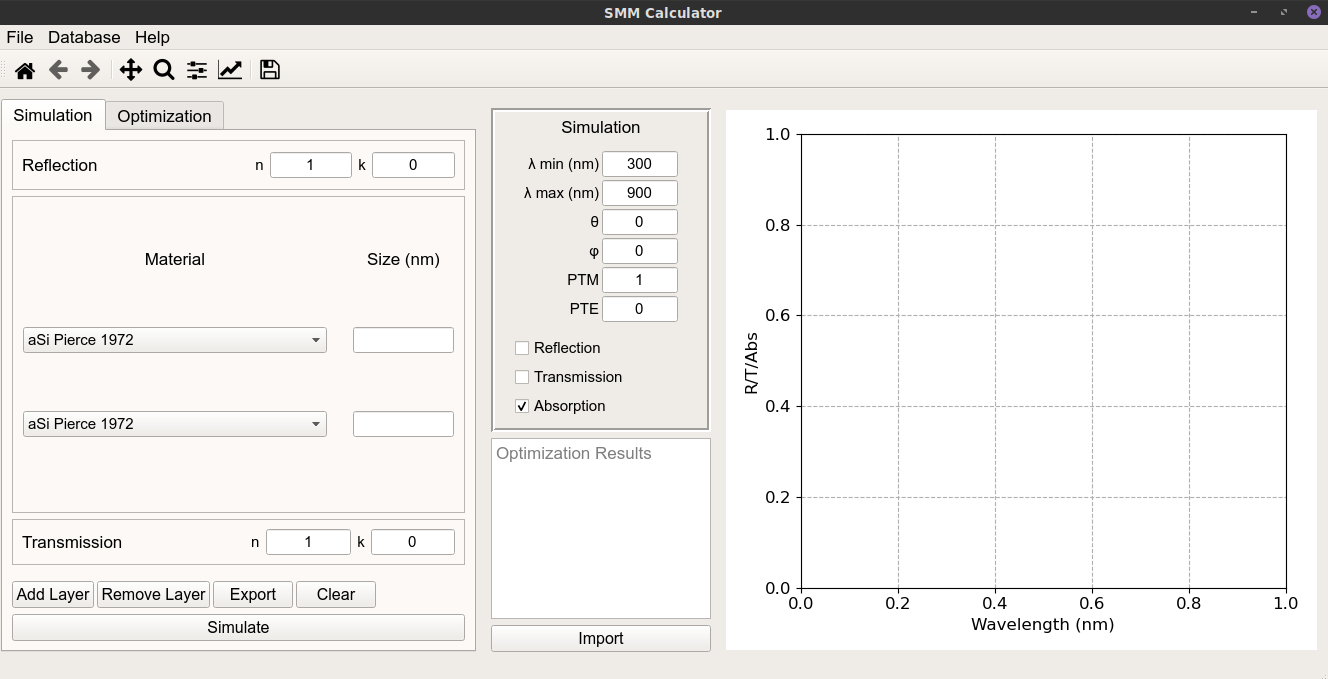
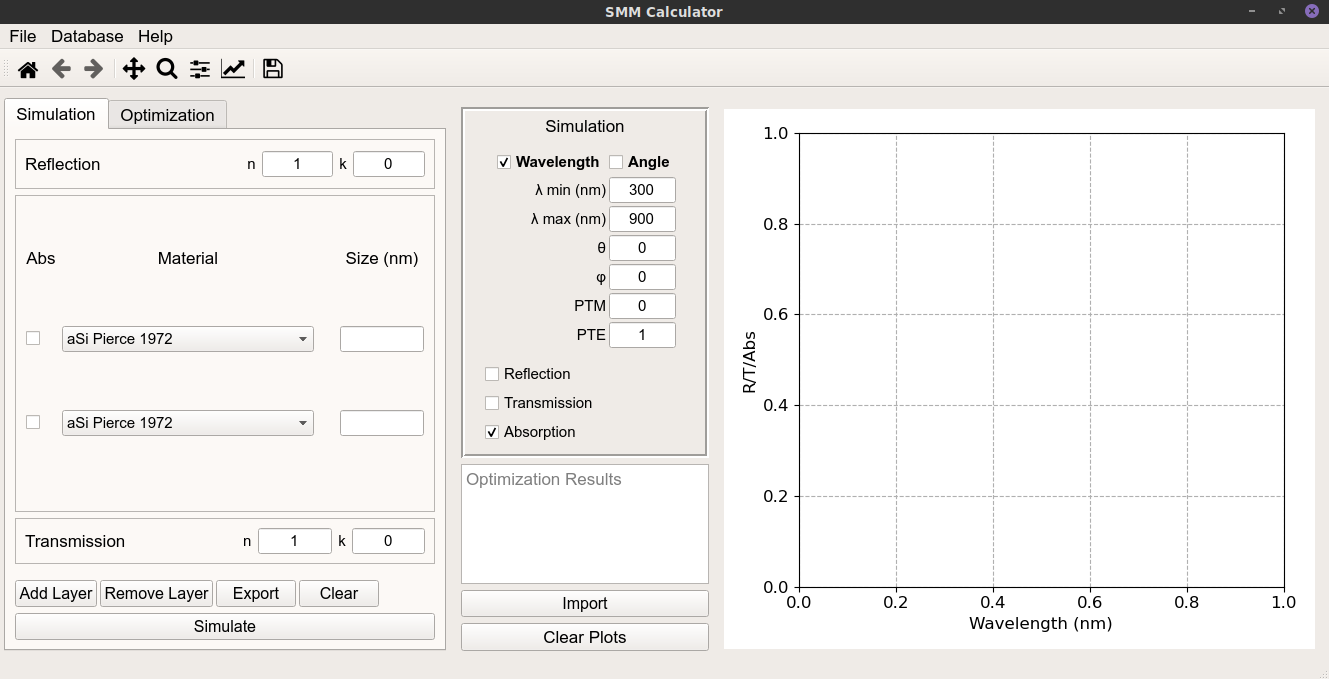
Uniformize interface

diff --git a/smm_uis/smm_main_window.py b/smm_uis/smm_main_window.py
@@ -1,6 +1,6 @@
 # -*- coding: utf-8 -*-
 
-# Form implementation generated from reading ui file 'smm_uis/Designer_UIs/main.ui'
+# Form implementation generated from reading ui file 'Designer_UIs/main.ui'
 #
 # Created by: PyQt5 UI code generator 5.9.2
 #
@@ -18,7 +18,7 @@ class Ui_SMM_Window(object):
         SMM_Window.setFont(font)
         SMM_Window.setAcceptDrops(True)
         icon = QtGui.QIcon()
-        icon.addPixmap(QtGui.QPixmap("../logo.png"), QtGui.QIcon.Normal, QtGui.QIcon.Off)
+        icon.addPixmap(QtGui.QPixmap("logo.png"), QtGui.QIcon.Normal, QtGui.QIcon.Off)
         SMM_Window.setWindowIcon(icon)
         self.centralwidget = QtWidgets.QWidget(SMM_Window)
         self.centralwidget.setObjectName("centralwidget")
@@ -545,7 +545,6 @@ class Ui_SMM_Window(object):
         font.setFamily("Arial")
         font.setPointSize(12)
         self.opt_tab_sim_button.setFont(font)
-        self.opt_tab_sim_button.setToolTip("")
         self.opt_tab_sim_button.setObjectName("opt_tab_sim_button")
         self.verticalLayout_4.addWidget(self.opt_tab_sim_button)
         self.tab_widget.addTab(self.optimizatio_tab, "")
@@ -953,14 +952,19 @@ class Ui_SMM_Window(object):
         self.sim_tab_trn_k_label.setText(_translate("SMM_Window", "k"))
         self.sim_tab_trn_k.setStatusTip(_translate("SMM_Window", "Complex refractive index in transmission region"))
         self.sim_tab_trn_k.setText(_translate("SMM_Window", "0"))
+        self.sim_tab_add_layer_button.setToolTip(_translate("SMM_Window", "Add layer to the stack"))
         self.sim_tab_add_layer_button.setStatusTip(_translate("SMM_Window", "Add a layer to the bottom of the stack"))
         self.sim_tab_add_layer_button.setText(_translate("SMM_Window", "Add Layer"))
+        self.sim_tab_rem_layer_button.setToolTip(_translate("SMM_Window", "Remove layer from the stack"))
         self.sim_tab_rem_layer_button.setStatusTip(_translate("SMM_Window", "Remove bottom layer from the stack"))
         self.sim_tab_rem_layer_button.setText(_translate("SMM_Window", "Remove Layer"))
+        self.sim_tab_export_button.setToolTip(_translate("SMM_Window", "Export stored simulation results"))
         self.sim_tab_export_button.setStatusTip(_translate("SMM_Window", "Export the stored simulation results"))
         self.sim_tab_export_button.setText(_translate("SMM_Window", "Export"))
+        self.sim_tab_clear_button.setToolTip(_translate("SMM_Window", "Clear all stored simulation results"))
         self.sim_tab_clear_button.setStatusTip(_translate("SMM_Window", "Clear all stored simulation results"))
         self.sim_tab_clear_button.setText(_translate("SMM_Window", "Clear"))
+        self.sim_tab_sim_button.setToolTip(_translate("SMM_Window", "Run Simulation"))
         self.sim_tab_sim_button.setStatusTip(_translate("SMM_Window", "Perform Simulation"))
         self.sim_tab_sim_button.setText(_translate("SMM_Window", "Simulate"))
         self.tab_widget.setTabText(self.tab_widget.indexOf(self.simulation_tab), _translate("SMM_Window", "Simulation"))
@@ -981,41 +985,62 @@ class Ui_SMM_Window(object):
         self.opt_tab_trn_k_label.setText(_translate("SMM_Window", "k"))
         self.opt_tab_trn_k.setStatusTip(_translate("SMM_Window", "Complex refractive index in transission region"))
         self.opt_tab_trn_k.setText(_translate("SMM_Window", "0"))
+        self.opt_tab_add_layer_button.setToolTip(_translate("SMM_Window", "Add a layer to the bottom of the stack"))
         self.opt_tab_add_layer_button.setStatusTip(_translate("SMM_Window", "Add a layer to the bottom of the stack"))
         self.opt_tab_add_layer_button.setText(_translate("SMM_Window", "Add Layer"))
+        self.opt_tab_rem_layer_button.setToolTip(_translate("SMM_Window", "Remove a layer from the stack"))
         self.opt_tab_rem_layer_button.setStatusTip(_translate("SMM_Window", "Remove bottom layer from the stack"))
         self.opt_tab_rem_layer_button.setText(_translate("SMM_Window", "Remove Layer"))
+        self.opt_tab_sim_button.setToolTip(_translate("SMM_Window", "Perform optimization"))
         self.opt_tab_sim_button.setStatusTip(_translate("SMM_Window", "Perform Optimization"))
         self.opt_tab_sim_button.setText(_translate("SMM_Window", "Optimize"))
         self.tab_widget.setTabText(self.tab_widget.indexOf(self.optimizatio_tab), _translate("SMM_Window", "Optimization"))
         self.simulation_label.setText(_translate("SMM_Window", "Simulation"))
-        self.sim_param_pte.setStatusTip(_translate("SMM_Window", "TE polarization vector component (non-normalized)"))
+        self.sim_param_pte.setToolTip(_translate("SMM_Window", "TE component of polarization vector component (non-normalized)"))
+        self.sim_param_pte.setStatusTip(_translate("SMM_Window", "TE component of polarization vector component (non-normalized)"))
         self.sim_param_pte.setText(_translate("SMM_Window", "1"))
         self.sim_param_lmb_min_label.setText(_translate("SMM_Window", "λ min (nm)"))
+        self.sim_param_theta.setToolTip(_translate("SMM_Window", "Polar Incidence angle"))
         self.sim_param_theta.setStatusTip(_translate("SMM_Window", "Polar incidence angle"))
         self.sim_param_theta.setText(_translate("SMM_Window", "0"))
         self.sim_param_lmb_max_label.setText(_translate("SMM_Window", "λ max (nm)"))
         self.sim_param_theta_label.setText(_translate("SMM_Window", "θ"))
+        self.sim_param_phi.setToolTip(_translate("SMM_Window", "Azimutal incidence angle"))
         self.sim_param_phi.setStatusTip(_translate("SMM_Window", "Azimutal incidence angle"))
         self.sim_param_phi.setText(_translate("SMM_Window", "0"))
         self.sim_param_pte_label.setText(_translate("SMM_Window", "PTE"))
+        self.sim_param_lmb_max.setToolTip(_translate("SMM_Window", "Upper wavelength bound for simulation"))
         self.sim_param_lmb_max.setStatusTip(_translate("SMM_Window", "Upper wavelength bound for simulation"))
         self.sim_param_lmb_max.setText(_translate("SMM_Window", "900"))
-        self.sim_param_ptm.setStatusTip(_translate("SMM_Window", "TM polarization vector component (non-normalized)"))
+        self.sim_param_ptm.setToolTip(_translate("SMM_Window", "TM component of the polarization vector (non-normalized)"))
+        self.sim_param_ptm.setStatusTip(_translate("SMM_Window", "TM component of the  polarization vector component (non-normalized)"))
         self.sim_param_ptm.setText(_translate("SMM_Window", "0"))
         self.sim_param_phi_label.setText(_translate("SMM_Window", "φ"))
+        self.sim_param_lmb_min.setToolTip(_translate("SMM_Window", "Lower wavelength Bound to Simulate"))
         self.sim_param_lmb_min.setStatusTip(_translate("SMM_Window", "Lower wavelength bound to simulate"))
         self.sim_param_lmb_min.setText(_translate("SMM_Window", "300"))
         self.sim_param_lmb_min.setPlaceholderText(_translate("SMM_Window", "0"))
         self.sim_param_ptm_label.setText(_translate("SMM_Window", "PTM"))
+        self.sim_param_check_lmb.setToolTip(_translate("SMM_Window", "Check to simulate broadband simulations"))
+        self.sim_param_check_lmb.setStatusTip(_translate("SMM_Window", "Check to simulate broadband simulations"))
         self.sim_param_check_lmb.setText(_translate("SMM_Window", "Wavelength"))
+        self.sim_param_check_angle.setToolTip(_translate("SMM_Window", "Check to simulate broad angle simulations"))
+        self.sim_param_check_angle.setStatusTip(_translate("SMM_Window", "Check to simulate broad angle simulations"))
         self.sim_param_check_angle.setText(_translate("SMM_Window", "Angle"))
+        self.sim_param_ref_checkbox.setToolTip(_translate("SMM_Window", "Plot Reflection in Simulations"))
+        self.sim_param_ref_checkbox.setStatusTip(_translate("SMM_Window", "Plot Reflection in Optimizations"))
         self.sim_param_ref_checkbox.setText(_translate("SMM_Window", "Reflection"))
+        self.sim_param_trn_checkbox.setToolTip(_translate("SMM_Window", "Plot Transmission in Simulations"))
+        self.sim_param_trn_checkbox.setStatusTip(_translate("SMM_Window", "Plot Transmission in Simulations"))
         self.sim_param_trn_checkbox.setText(_translate("SMM_Window", "Transmission"))
+        self.sim_param_abs_checkbox.setToolTip(_translate("SMM_Window", "Plot Absorption in Simulations"))
+        self.sim_param_abs_checkbox.setStatusTip(_translate("SMM_Window", "Plot Absortion in Simulations"))
         self.sim_param_abs_checkbox.setText(_translate("SMM_Window", "Absorption"))
         self.opt_res_text.setPlaceholderText(_translate("SMM_Window", "Optimization Results"))
+        self.import_button.setToolTip(_translate("SMM_Window", "Import data from file"))
         self.import_button.setStatusTip(_translate("SMM_Window", "Import data from file"))
         self.import_button.setText(_translate("SMM_Window", "Import"))
+        self.clear_button.setToolTip(_translate("SMM_Window", "Clear all current plots"))
         self.clear_button.setText(_translate("SMM_Window", "Clear Plots"))
         self.menuFile.setTitle(_translate("SMM_Window", "File"))
         self.menuDatabase.setTitle(_translate("SMM_Window", "Database"))

diff --git a/smm_uis/smm_export_window.py b/smm_uis/smm_export_window.py
@@ -1,6 +1,6 @@
 # -*- coding: utf-8 -*-
 
-# Form implementation generated from reading ui file 'smm_uis/Designer_UIs/export_gui.ui'
+# Form implementation generated from reading ui file 'Designer_UIs/export_gui.ui'
 #
 # Created by: PyQt5 UI code generator 5.9.2
 #
@@ -13,7 +13,7 @@ class Ui_ExportWindow(object):
         ExportWindow.setObjectName("ExportWindow")
         ExportWindow.resize(579, 322)
         icon = QtGui.QIcon()
-        icon.addPixmap(QtGui.QPixmap("../logo.png"), QtGui.QIcon.Normal, QtGui.QIcon.Off)
+        icon.addPixmap(QtGui.QPixmap("logo.png"), QtGui.QIcon.Normal, QtGui.QIcon.Off)
         ExportWindow.setWindowIcon(icon)
         self.horizontalLayout_2 = QtWidgets.QHBoxLayout(ExportWindow)
         self.horizontalLayout_2.setContentsMargins(15, 15, 15, 15)

diff --git a/scatmm.py b/scatmm.py
@@ -774,8 +774,14 @@ class SMMGUI(QMainWindow):
         Open a new window displaying all the simulated results
         Choose outputs and then ask for directory to output information
         """
-        self.export_ui = ExpWindow(self, self.sim_results)
-        self.export_ui.show()
+        if len(self.sim_results) > 0:
+            self.export_ui = ExpWindow(self, self.sim_results)
+            self.export_ui.show()
+        else:
+            QMessageBox.warning(self, "Simulation Required",
+                                "No Simulation available to export!!",
+                                QMessageBox.Close,
+                                QMessageBox.Close)
 
     """ Optimization functions """
 

diff --git a/smm_uis/smm_properties_ui.py b/smm_uis/smm_properties_ui.py
@@ -2,13 +2,11 @@
 
 # Form implementation generated from reading ui file 'Designer_UIs/properties_ui.ui'
 #
-# Created by: PyQt5 UI code generator 5.14.1
+# Created by: PyQt5 UI code generator 5.9.2
 #
 # WARNING! All changes made in this file will be lost!
 
-
 from PyQt5 import QtCore, QtGui, QtWidgets
-
 
 class Ui_Properties(object):
     def setupUi(self, Properties):
@@ -130,3 +128,4 @@ class Ui_Properties(object):
         self.save_default_button.setText(_translate("Properties", "Save as default"))
         self.properties_apply_button.setText(_translate("Properties", "Apply"))
         self.properties_close_button.setText(_translate("Properties", "Close"))
+

diff --git a/smm_uis/smm_database_window.py b/smm_uis/smm_database_window.py
@@ -2,13 +2,11 @@
 
 # Form implementation generated from reading ui file 'Designer_UIs/view_database.ui'
 #
-# Created by: PyQt5 UI code generator 5.14.1
+# Created by: PyQt5 UI code generator 5.9.2
 #
 # WARNING! All changes made in this file will be lost!
 
-
 from PyQt5 import QtCore, QtGui, QtWidgets
-
 
 class Ui_Database(object):
     def setupUi(self, Database):
@@ -67,3 +65,4 @@ class Ui_Database(object):
         self.add_material.setText(_translate("Database", "Add Material"))
         self.rmv_material.setText(_translate("Database", "Remove Material"))
         self.view_material.setText(_translate("Database", "View Material"))
+

diff --git a/smm_uis/smm_import_db_mat.py b/smm_uis/smm_import_db_mat.py
@@ -2,13 +2,11 @@
 
 # Form implementation generated from reading ui file 'Designer_UIs/import_db_mat.ui'
 #
-# Created by: PyQt5 UI code generator 5.14.1
+# Created by: PyQt5 UI code generator 5.9.2
 #
 # WARNING! All changes made in this file will be lost!
 
-
 from PyQt5 import QtCore, QtGui, QtWidgets
-
 
 class Ui_ImportDB(object):
     def setupUi(self, ImportDB):
@@ -97,3 +95,4 @@ class Ui_ImportDB(object):
         self.units_label.setText(_translate("ImportDB", "Units:"))
         self.import_button.setText(_translate("ImportDB", "Import"))
         self.preview_button.setText(_translate("ImportDB", "Preview"))
+

diff --git a/README.md b/README.md
@@ -10,6 +10,8 @@ This script implements a graphical interface (on PyQt5) to interact with the tra
 The program has a database of materials (easily expanded with new materials), that is used to perform the calculations.
 This program allows for:
 * Calculation of Reflection/Transmission/Absorption for arbitrarily sized stacks of planar materials
+* Calculation of Absoprtion for a particular layer in the stack
+* Calculation of Reflection/Transmission/Absorption for broad-angle/broadband simulations
 * Export the results of simulations to text files
 * Import data to compare with simulations
 * Thickness fitting from imported data (using a particle swarm algorithm to find the thickness combination for all layers that minimizes the error between the simulation algorithm and the imported data.
